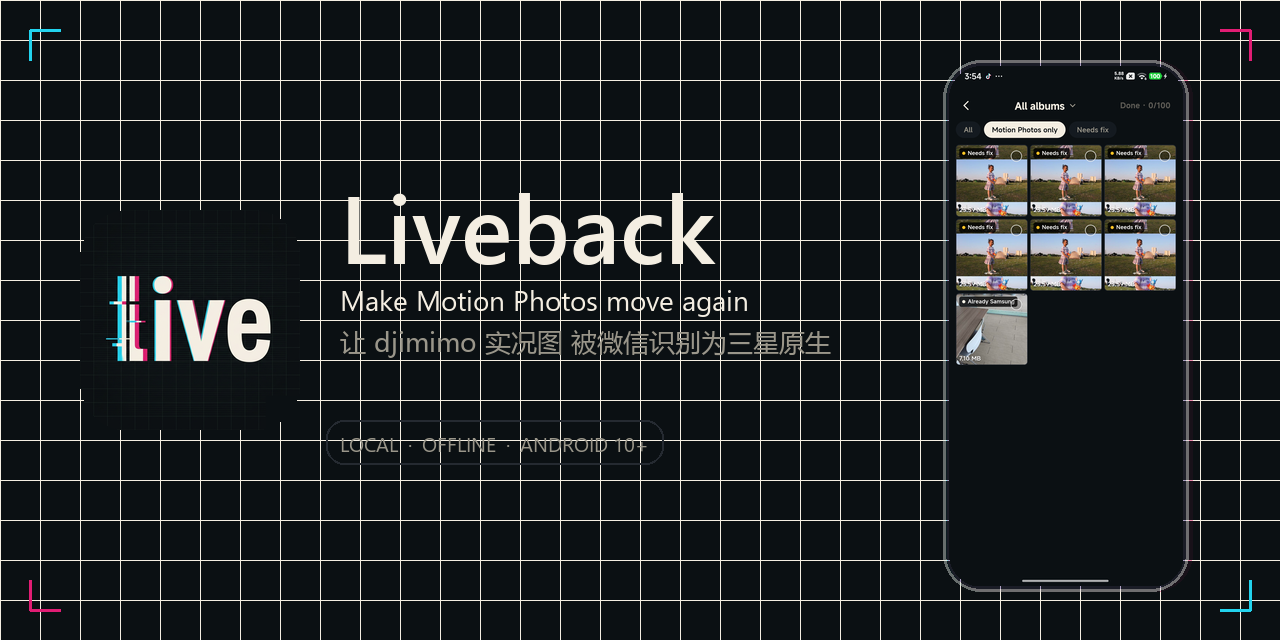
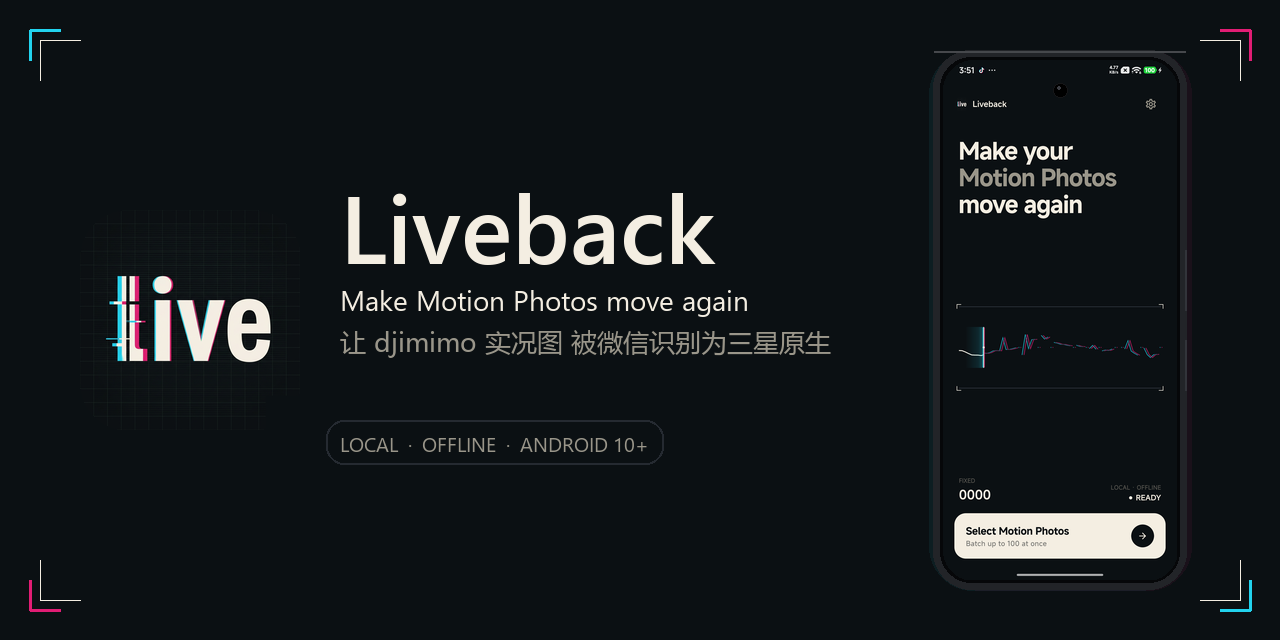
Social preview: drop full-screen grid (text illegible), use Home screenshot, stylize phone mockup as Samsung S26 Ultra (titanium frame + punch-hole + side buttons + chroma glow)

diff --git a/tools/gen_social_preview.py b/tools/gen_social_preview.py
@@ -50,13 +50,25 @@ def load_font(size: int, bold: bool = False, cjk: bool = False) -> ImageFont.Ima
     return ImageFont.load_default()
 
 
-def draw_grid(draw: ImageDraw.ImageDraw, step: int = 40, alpha: int = 18) -> None:
-    """Subtle editorial grid overlay."""
-    grid_color = (*CREAM[:3], alpha)
-    for x in range(0, W + 1, step):
-        draw.line([(x, 0), (x, H)], fill=grid_color, width=1)
-    for y in range(0, H + 1, step):
-        draw.line([(0, y), (W, y)], fill=grid_color, width=1)
+def draw_corner_hairlines(draw: ImageDraw.ImageDraw) -> None:
+    """Editorial hairline accents at the four corners — tiny registration
+    marks suggesting a print layout. Stays out of the text zone."""
+    hair = (*CREAM[:3], 32)
+    # 40-px L-marks inset 40 px from each corner, very faint.
+    for (ox, oy, dx1, dy1, dx2, dy2) in [
+        (40, 40,  0,  0,  40,  0),    # TL horizontal
+        (40, 40,  0,  0,   0, 40),    # TL vertical
+        (W - 40, 40, -40,  0,   0,  0),
+        (W - 40, 40,   0,  0,   0, 40),
+        (40, H - 40,  0,   0,  40,  0),
+        (40, H - 40,  0, -40,   0,  0),
+        (W - 40, H - 40, -40, 0, 0, 0),
+        (W - 40, H - 40,   0,-40, 0, 0),
+    ]:
+        draw.line(
+            [(ox + dx1, oy + dy1), (ox + dx2, oy + dy2)],
+            fill=hair, width=1,
+        )
 
 
 def draw_chromatic_corner(img: Image.Image) -> None:
@@ -93,57 +105,117 @@ def paste_phone(
     cx: int,
     cy: int,
 ) -> None:
-    """Paste a phone-framed screenshot. We rescale to `target_h` tall
-    (preserving aspect) and add a subtle cream border + outer glow."""
+    """Render a Samsung Galaxy S26 Ultra-style mockup wrapping the screenshot.
+
+    Design cues:
+      - Near-rectangular silhouette with a small corner radius (S25/S26 Ultra).
+      - Thin titanium/charcoal frame, subtle inner bezel.
+      - Center punch-hole camera dot near the top.
+      - Thin power + volume buttons on the right edge.
+      - Cyan/magenta double-glow aura behind the device (brand §2 chroma).
+    """
     src = Image.open(screenshot).convert("RGBA")
     sw, sh = src.size
-    target_w = int(sw * (target_h / sh))
-    src = src.resize((target_w, target_h), Image.Resampling.LANCZOS)
+    screen_w = int(sw * (target_h / sh))
+    screen_h = target_h
 
-    frame = Image.new("RGBA", (target_w + 12, target_h + 12), (0, 0, 0, 0))
-    fd = ImageDraw.Draw(frame)
-    # Outer thin cream border (bezel).
-    fd.rounded_rectangle(
-        (0, 0, target_w + 11, target_h + 11),
-        radius=38,
-        outline=(*CREAM[:3], 100),
-        width=3,
+    # Phone outer dimensions (frame + bezel around screen).
+    frame_pad = 7         # titanium outer frame thickness
+    bezel_pad = 3         # inner black bezel
+    phone_w = screen_w + 2 * (frame_pad + bezel_pad)
+    phone_h = screen_h + 2 * (frame_pad + bezel_pad)
+    phone_r = 38          # S26 Ultra has a modest corner radius, flatter than S23
+    screen_r = phone_r - (frame_pad + bezel_pad) + 2
+
+    phone = Image.new("RGBA", (phone_w, phone_h), (0, 0, 0, 0))
+    pd = ImageDraw.Draw(phone)
+
+    # Outer titanium frame (dark charcoal gradient approximation).
+    titanium = (34, 36, 40, 255)
+    pd.rounded_rectangle((0, 0, phone_w - 1, phone_h - 1), radius=phone_r, fill=titanium)
+
+    # Thin highlight line along the top edge — suggests brushed metal.
+    hi = (70, 72, 76, 255)
+    pd.rounded_rectangle(
+        (1, 1, phone_w - 2, 2),
+        radius=phone_r,
+        outline=hi,
+        width=1,
     )
 
-    # Clip the screenshot itself into the inner rounded rect.
-    mask = Image.new("L", (target_w, target_h), 0)
+    # Inner bezel (matte black).
+    inset = frame_pad
+    pd.rounded_rectangle(
+        (inset, inset, phone_w - inset - 1, phone_h - inset - 1),
+        radius=phone_r - frame_pad,
+        fill=(6, 7, 9, 255),
+    )
+
+    # Screen area: paste the screenshot clipped to rounded rect.
+    screen_inset = frame_pad + bezel_pad
+    mask = Image.new("L", (screen_w, screen_h), 0)
     ImageDraw.Draw(mask).rounded_rectangle(
-        (0, 0, target_w, target_h), radius=32, fill=255
+        (0, 0, screen_w, screen_h), radius=screen_r, fill=255
     )
-    frame.paste(src, (6, 6), mask)
+    screen = src.resize((screen_w, screen_h), Image.Resampling.LANCZOS)
+    phone.paste(screen, (screen_inset, screen_inset), mask)
 
-    # Outer glow (cyan+magenta drop-shadow in brand style).
-    glow = Image.new("RGBA", (target_w + 80, target_h + 80), (0, 0, 0, 0))
+    # Punch-hole front camera — center, ~28 px above top of screen area at this scale.
+    cam_cx = phone_w // 2
+    cam_cy = screen_inset + 30
+    pd.ellipse(
+        (cam_cx - 7, cam_cy - 7, cam_cx + 7, cam_cy + 7),
+        fill=(0, 0, 0, 255),
+        outline=(22, 22, 24, 255),
+    )
+    # Tiny specular highlight on the lens.
+    pd.ellipse(
+        (cam_cx - 3, cam_cy - 4, cam_cx, cam_cy - 1),
+        fill=(60, 62, 68, 255),
+    )
+
+    # Side buttons on the right edge: one thin power, one volume rocker.
+    btn_x = phone_w - 2
+    # Volume (upper) — one tall thin bar
+    pd.rectangle(
+        (btn_x, phone_h // 2 - 70, btn_x + 2, phone_h // 2 - 10),
+        fill=(50, 52, 58, 255),
+    )
+    # Power (lower)
+    pd.rectangle(
+        (btn_x, phone_h // 2 + 20, btn_x + 2, phone_h // 2 + 70),
+        fill=(50, 52, 58, 255),
+    )
+
+    # Double-glow aura behind the phone (cyan + magenta brand chroma).
+    pad = 60
+    glow = Image.new("RGBA", (phone_w + 2 * pad, phone_h + 2 * pad), (0, 0, 0, 0))
     gd = ImageDraw.Draw(glow)
+    # Cyan ring (slight left shift)
     gd.rounded_rectangle(
-        (40, 40, 40 + target_w + 11, 40 + target_h + 11),
-        radius=38,
-        fill=(*CYAN[:3], 16),
+        (pad - 4, pad, pad - 4 + phone_w, pad + phone_h),
+        radius=phone_r + 6,
+        fill=(*CYAN[:3], 18),
     )
-    # Shift + magenta overlay for the RGB-split hint.
-    mag = Image.new("RGBA", glow.size, (0, 0, 0, 0))
-    ImageDraw.Draw(mag).rounded_rectangle(
-        (44, 40, 44 + target_w + 11, 40 + target_h + 11),
-        radius=38,
-        fill=(*MAGENTA[:3], 16),
+    # Magenta ring (slight right shift)
+    mag_layer = Image.new("RGBA", glow.size, (0, 0, 0, 0))
+    ImageDraw.Draw(mag_layer).rounded_rectangle(
+        (pad + 4, pad, pad + 4 + phone_w, pad + phone_h),
+        radius=phone_r + 6,
+        fill=(*MAGENTA[:3], 18),
     )
-    glow.alpha_composite(mag)
+    glow.alpha_composite(mag_layer)
 
-    ox = cx - (target_w + 80) // 2
-    oy = cy - (target_h + 80) // 2
+    ox = cx - (phone_w + 2 * pad) // 2
+    oy = cy - (phone_h + 2 * pad) // 2
     canvas.alpha_composite(glow, (ox, oy))
-    canvas.alpha_composite(frame, (ox + 40, oy + 40))
+    canvas.alpha_composite(phone, (ox + pad, oy + pad))
 
 
 def main() -> int:
     repo = Path(__file__).resolve().parent.parent
     icon = repo / "assets" / "branding" / "app-icon.png"
-    screenshot = repo / "docs" / "screenshots" / "gallery.png"
+    screenshot = repo / "docs" / "screenshots" / "home.png"
     out = repo / "docs" / "social-preview.png"
 
     if not icon.is_file():
@@ -156,8 +228,8 @@ def main() -> int:
     canvas = Image.new("RGBA", (W, H), BG)
     draw = ImageDraw.Draw(canvas, "RGBA")
 
-    # Subtle grid + corner brackets (editorial decorations).
-    draw_grid(draw)
+    # Editorial corner accents only — no full-screen grid (hurts legibility).
+    draw_corner_hairlines(draw)
     draw_chromatic_corner(canvas)
 
     # Left block: app icon.
